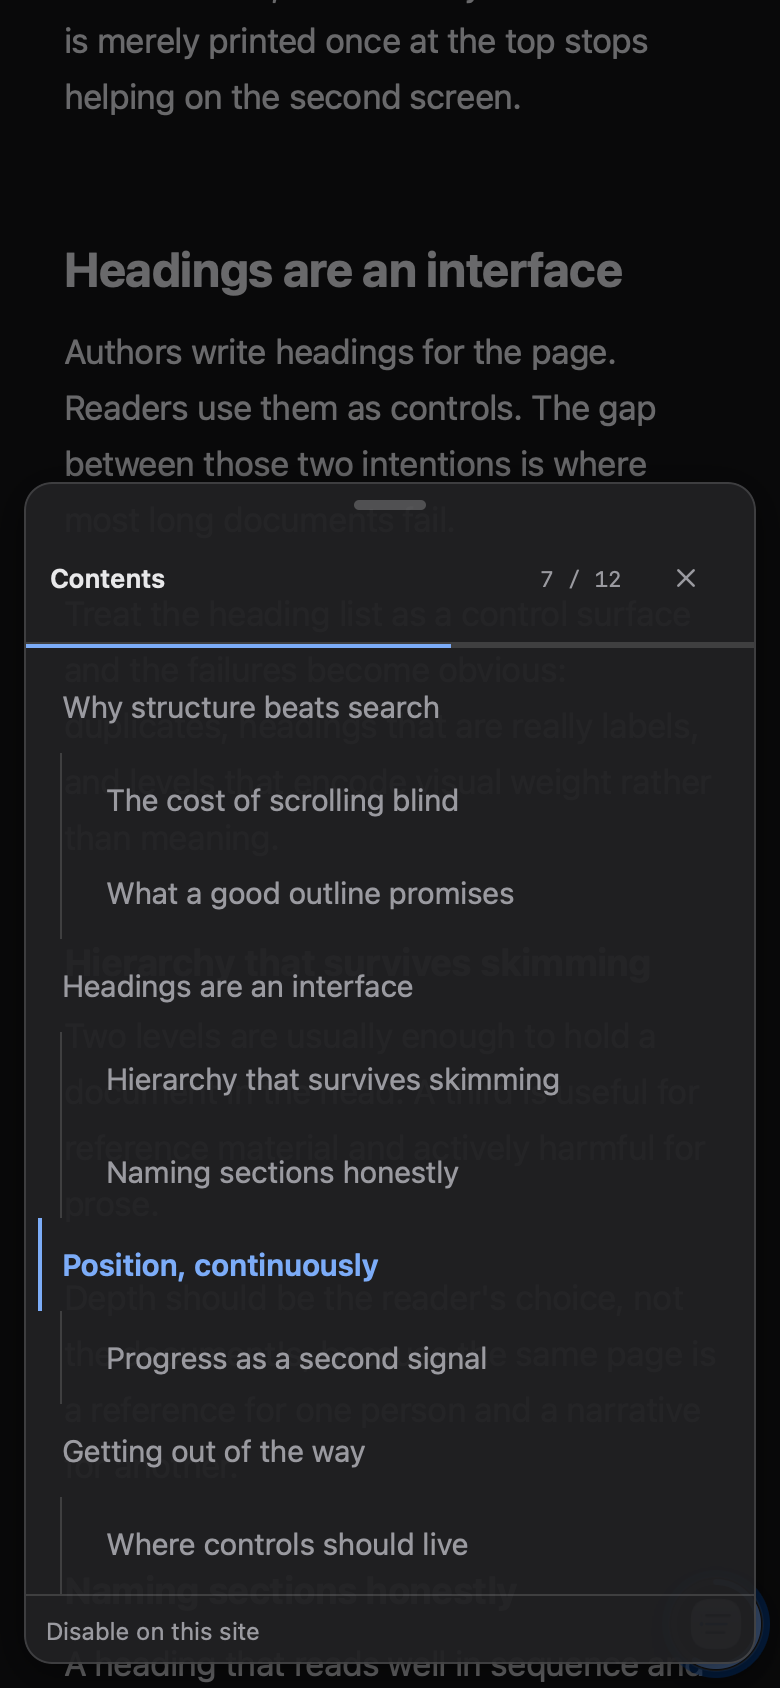
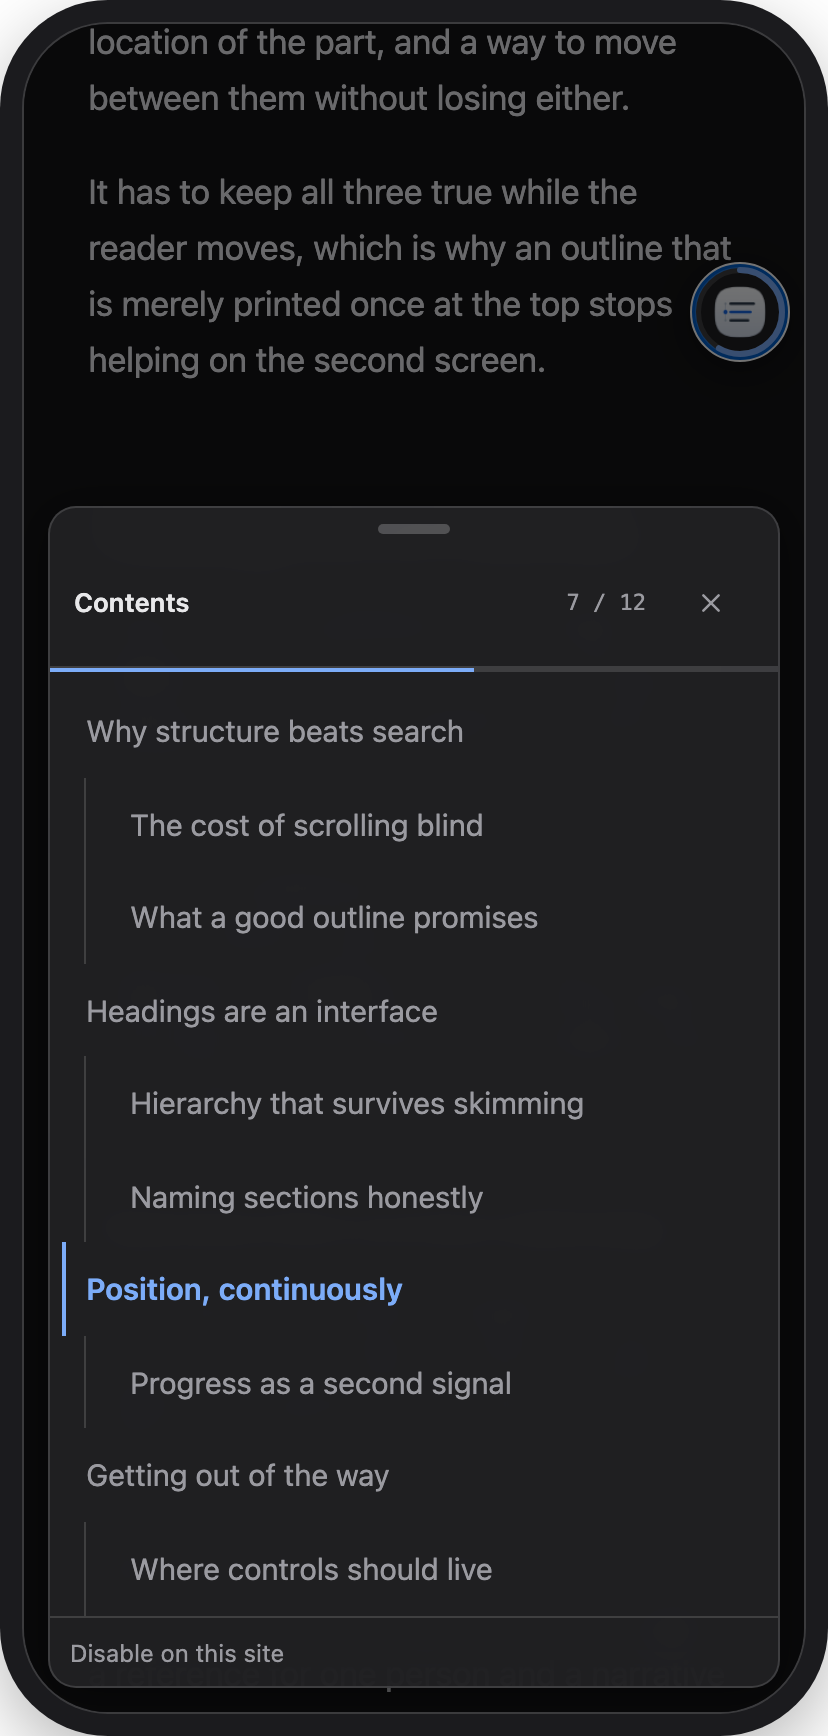
fix(shots): iOS 截图重拍，并补上 iPad
三处改动，按影响从大到小：

1. 换 Chromium 拍。Playwright 的 headless WebKit 对 backdrop-filter 谎报支持：
   CSS.supports 返回 true，然后不做任何栅格化。实测同一张测试页在 Chromium 里
   是磨砂的，在 WebKit 里背后的文字一个字都不糊。面板和抽屉是 94% 不透明的表面，
   全靠这层模糊，所以旧的 iOS 截图里正文直接从目录里透出来 —— 那是拍摄工具的
   问题，不是设备上的样子。没有为截图改动任何产品 CSS。

2. 加机身边框。只有一圈中性的圆角边框：没有画状态栏、刘海或 Home 指示条 ——
   那是 Apple 的 UI，截图里凭空画出来就是在展示一个它根本没拍到的东西。
   边框近黑，所以内外各加一道浅色发丝线，深色模式下才看得出屏幕边缘在哪。

3. 悬浮球的位置改成显式传入。默认角落是从 env(safe-area-inset-*) 算的，而
   headless Chromium 把这些值报成 0，球于是比任何带 Home 指示条的 iPhone 低
   34pt，正好落在圆角上被切掉。现在传的就是 createBall 在真机上会算出来的值。
   抽屉打开的两张用的是一个拖动过的位置：留在默认角落时球在抽屉右下角背后，
   只有进度环露出一丝，看着像渲染接缝 —— 而球本来就可拖动、按站点记住位置。

iPad 用的是 13 寸横屏（1366×1024）而不是更常见的 11 寸（1194×834），有实测理由：
面板按 Math.min(articleRect.right + GAP, innerWidth - width) 夹住，需要页边有
PANEL_MIN_WIDTH + GAP 才能待在正文旁边。44rem 的正文居中放进 1194 只剩 245px，
面板会压住每行最后几个词；1366 有 331px，面板落在页边 —— 那才是这张图要展示的行为。

diff --git a/src/i18n/ui.ts b/src/i18n/ui.ts
@@ -25,8 +25,10 @@ export const ui = {
     'shots.ball': 'On iPhone it is a floating button — drag it anywhere, it snaps to the edge.',
     'shots.sheet': 'Tap it and the outline slides up, with the section you are reading highlighted.',
     'shots.panelDark': 'Light and dark, matched to Safari.',
+    'shots.ipad': 'On iPad the panel sits in the margin next to the article, and stays wherever you drag it.',
     'shots.alt.panel': 'A long article in Safari on Mac with the PageTOC panel open beside it, the current section highlighted',
     'shots.alt.panelDark': 'The same panel in dark mode',
+    'shots.alt.ipad': 'A long article on iPad with the PageTOC panel docked in the right margin, the current section highlighted',
     'shots.alt.ball': 'An article on iPhone with the PageTOC floating button resting against the right edge',
     'shots.alt.sheet': 'The PageTOC sheet open over an article on iPhone, showing a nested outline with a progress bar',
     'shots.alt.sheetDark': 'The same sheet in dark mode',
@@ -89,8 +91,10 @@ export const ui = {
     'shots.ball': 'iPhone 上是一个悬浮球 —— 拖到哪都行，松手吸到边缘。',
     'shots.sheet': '点一下，目录从下方升起，你正在读的那一节是高亮的。',
     'shots.panelDark': '明暗两套外观，跟着 Safari 走。',
+    'shots.ipad': 'iPad 上面板就停在正文旁边的页边，拖到哪就留在哪。',
     'shots.alt.panel': 'Mac 版 Safari 中的长文，旁边打开着 PageTOC 面板，当前章节高亮',
     'shots.alt.panelDark': '同一个面板的深色模式',
+    'shots.alt.ipad': 'iPad 上的长文，PageTOC 面板停在右侧页边，当前章节高亮',
     'shots.alt.ball': 'iPhone 上的一篇文章，PageTOC 悬浮球吸附在右边缘',
     'shots.alt.sheet': 'iPhone 上打开的 PageTOC 抽屉，显示带层级的目录和进度条',
     'shots.alt.sheetDark': '同一个抽屉的深色模式',

diff --git a/src/lib/schema.ts b/src/lib/schema.ts
@@ -18,7 +18,7 @@ export const APP = {
   email: 'szlab.ai@outlook.com',
 } as const;
 
-const SHOTS = ['panel-light', 'panel-dark', 'sheet-light', 'sheet-dark', 'ball-light'];
+const SHOTS = ['panel-light', 'panel-dark', 'ipad-panel-light', 'sheet-light', 'sheet-dark', 'ball-light'];
 
 const copy = {
   en: {
